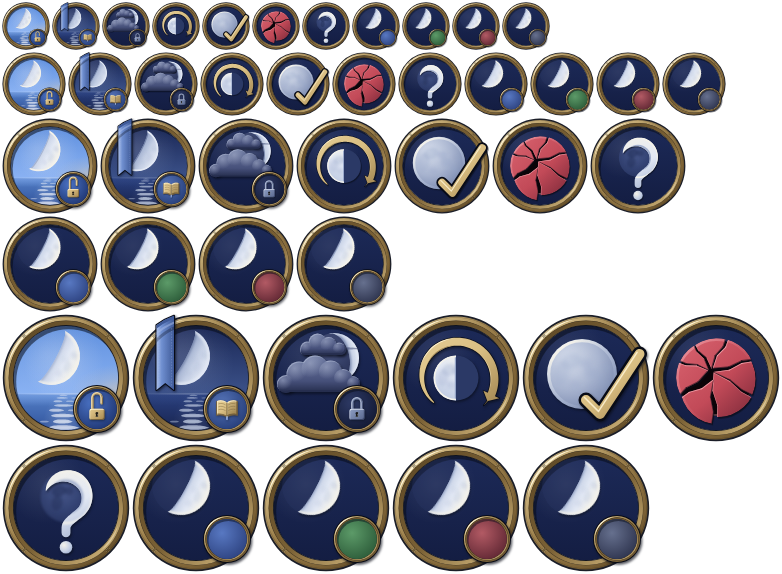
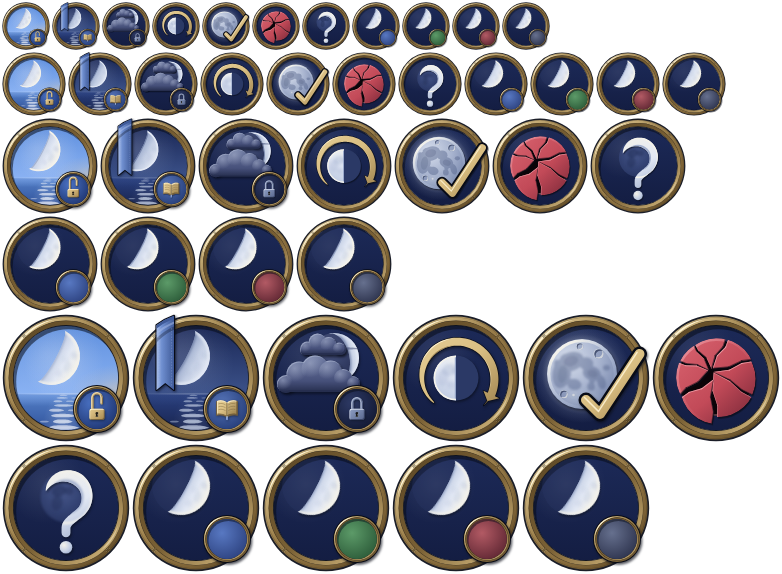
V1: Completed moon in the medal atlas takes the v7 face per tier
gen_atlas.py now takes Completed's source per tier: completed-v7.svg (darker
basalt seas, cool glow in the well, three rim-lit craters) for the 96 and
128 px tiers and their 2x, completed-v7-small.svg (same face, no craters) for
48 and 64. Sources are read from docs/design/v7/ui/completed-moon/ rather than
copied over medallion-r5/completed.svg, since make_completed.py derives them
from that master. medals.png and medals@2x.png regenerated; layout and
medals.json unchanged; every other sprite's cells are pixel-identical.

diff --git a/docs/design/moon-v6/round5/gen_atlas.py b/docs/design/moon-v6/round5/gen_atlas.py
@@ -13,6 +13,12 @@
 # Each sprite is drawn at every tier (48, 64, 96 and 128 px at 1x), so the plugin never shrinks a sprite by more than
 # 1.5x (image textures have one mip level). Sprites sit 2 px apart (4 px at 2x) so bilinear sampling never bleeds a
 # neighbour in. Chrome headless draws the sheet on a transparent background, as gen_atlas.py does for the ornaments.
+#
+# Completed takes its source per tier (feature plan v7 V1; docs/design/v7/ui/spec.md, section 4 and Revision 3 R3.4):
+# the 96 and 128 px tiers (and so their 2x) draw completed-v7.svg, with the three rim-lit craters, and the 48 and 64 px
+# tiers draw completed-v7-small.svg, the same face without them (at those sizes a crater is a few dark pixels, a hole).
+# Both are read from docs/design/v7/ui/completed-moon/ rather than copied over medallion-r5/completed.svg, because
+# make_completed.py derives them from that round-5 master. Every other sprite's cells are unchanged to the byte.
 # Usage: python docs/design/moon-v6/round5/gen_atlas.py
 import json
 import os
@@ -23,6 +29,7 @@ import tempfile
 HERE = os.path.dirname(os.path.abspath(__file__))
 REPO = os.path.abspath(os.path.join(HERE, "..", "..", "..", ".."))
 MEDALS = os.path.join(HERE, "medallion-r5")
+COMPLETED_V7 = os.path.join(REPO, "docs", "design", "v7", "ui", "completed-moon")
 DEST = os.path.join(REPO, "Tsukimichi", "assets", "ui")
 sys.path.insert(0, os.path.join(REPO, "docs", "design", "moon-road", "banners"))
 sys.path.insert(0, os.path.join(MEDALS, "_src"))
@@ -37,13 +44,22 @@ TIERS = [48, 64, 96, 128]
 # palette; GlyphTokens.Medallion.HandHex holds the same value.
 HAND = ("#66708E", "#2C324C")
 
-# sprite key -> source: a file in medallion-r5/ or a role seat for Ready on another job. Order is MedalSprite's.
+# Completed's source per tier (plan v7 V1): the craters only where their rims read.
+COMPLETED_BY_TIER = {
+    48: os.path.join(COMPLETED_V7, "completed-v7-small.svg"),
+    64: os.path.join(COMPLETED_V7, "completed-v7-small.svg"),
+    96: os.path.join(COMPLETED_V7, "completed-v7.svg"),
+    128: os.path.join(COMPLETED_V7, "completed-v7.svg"),
+}
+
+# sprite key -> source: a file in medallion-r5/, a role seat for Ready on another job, or {tier: path} for a sprite
+# whose source differs by tier. Order is MedalSprite's.
 SPRITES = [
     ("ready", "ready.svg"),
     ("in-journal", "in-journal.svg"),
     ("blocked", "blocked.svg"),
     ("done-this-cycle", "done-this-cycle.svg"),
-    ("completed", "completed.svg"),
+    ("completed", COMPLETED_BY_TIER),
     ("locked-out", "locked-out.svg"),
     ("not-checked", "not-checked.svg"),
     ("other-job-tank", ("tank",)),
@@ -105,11 +121,20 @@ def inner(svg_text, prefix):
     return view, body
 
 
+def bodies_by_tier(spec, prefix):
+    """{tier: (viewBox, body)} for one sprite: the same body at every tier, or each tier's own for a per-tier source."""
+    if isinstance(spec, dict):
+        assert sorted(spec) == TIERS, f"per-tier source needs exactly the tiers {TIERS}"
+        return {cell: inner(open(path, encoding="utf-8").read(), prefix) for cell, path in spec.items()}
+    one = inner(source(spec), prefix)
+    return {cell: one for cell in TIERS}
+
+
 def sheet(scale, rects, bodies):
     parts = []
     for i, (name, _) in enumerate(SPRITES):
-        view, body = bodies[name]
         for t, cell in enumerate(TIERS):
+            view, body = bodies[name][cell]
             x, y, w, h = rects[name][cell]
             # Each copy gets its own id prefix: a filter or clip shared across nested <svg>s would resolve to the first.
             body_t = re.sub(r'(id="|url\(#|href="#)m{0}_'.format(i), lambda k: f"{k.group(1)}m{i}t{t}_", body)
@@ -120,7 +145,7 @@ def sheet(scale, rects, bodies):
 
 def main():
     rects = layout()
-    bodies = {name: inner(source(spec), f"m{i}_") for i, (name, spec) in enumerate(SPRITES)}
+    bodies = {name: bodies_by_tier(spec, f"m{i}_") for i, (name, spec) in enumerate(SPRITES)}
     os.makedirs(DEST, exist_ok=True)
     with tempfile.TemporaryDirectory() as tmp:
         for scale, suffix in ((1, ""), (2, "@2x")):
